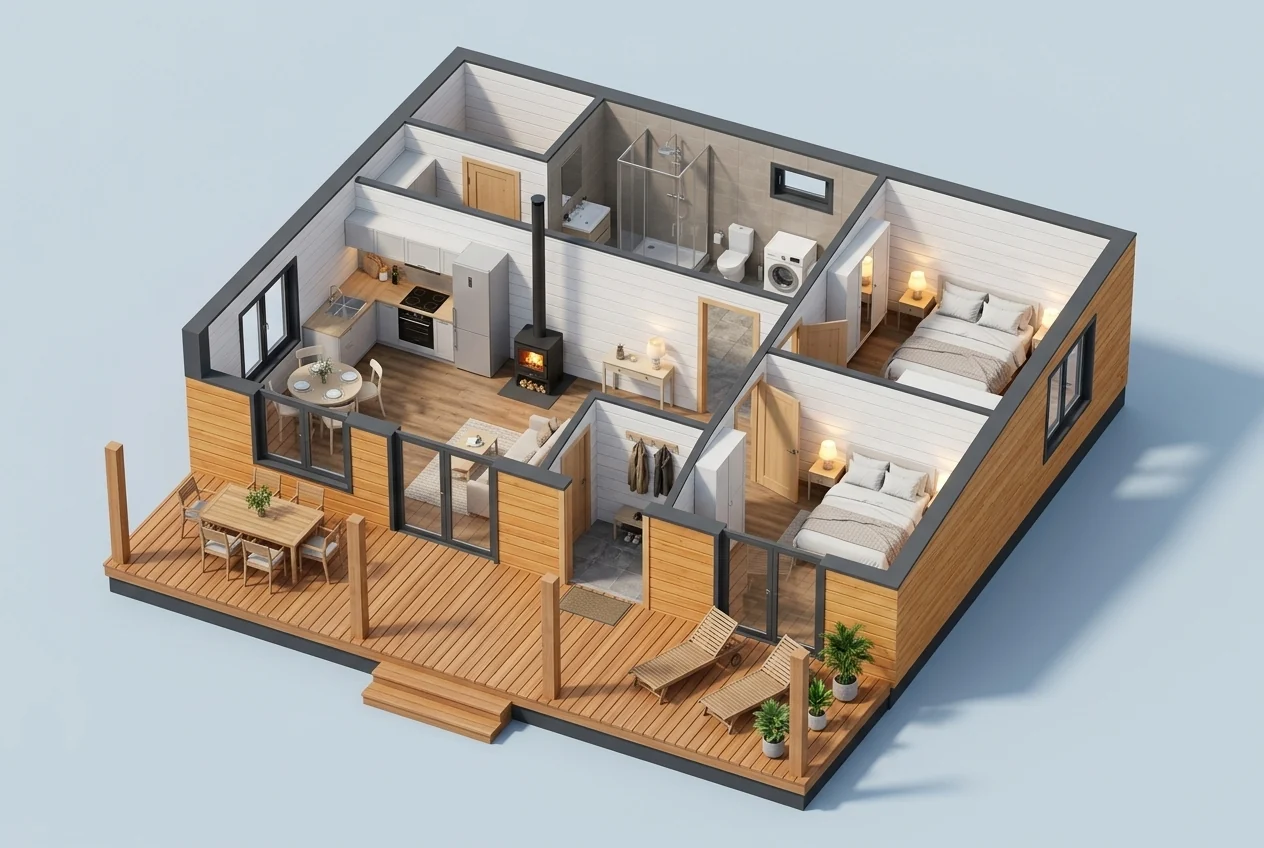
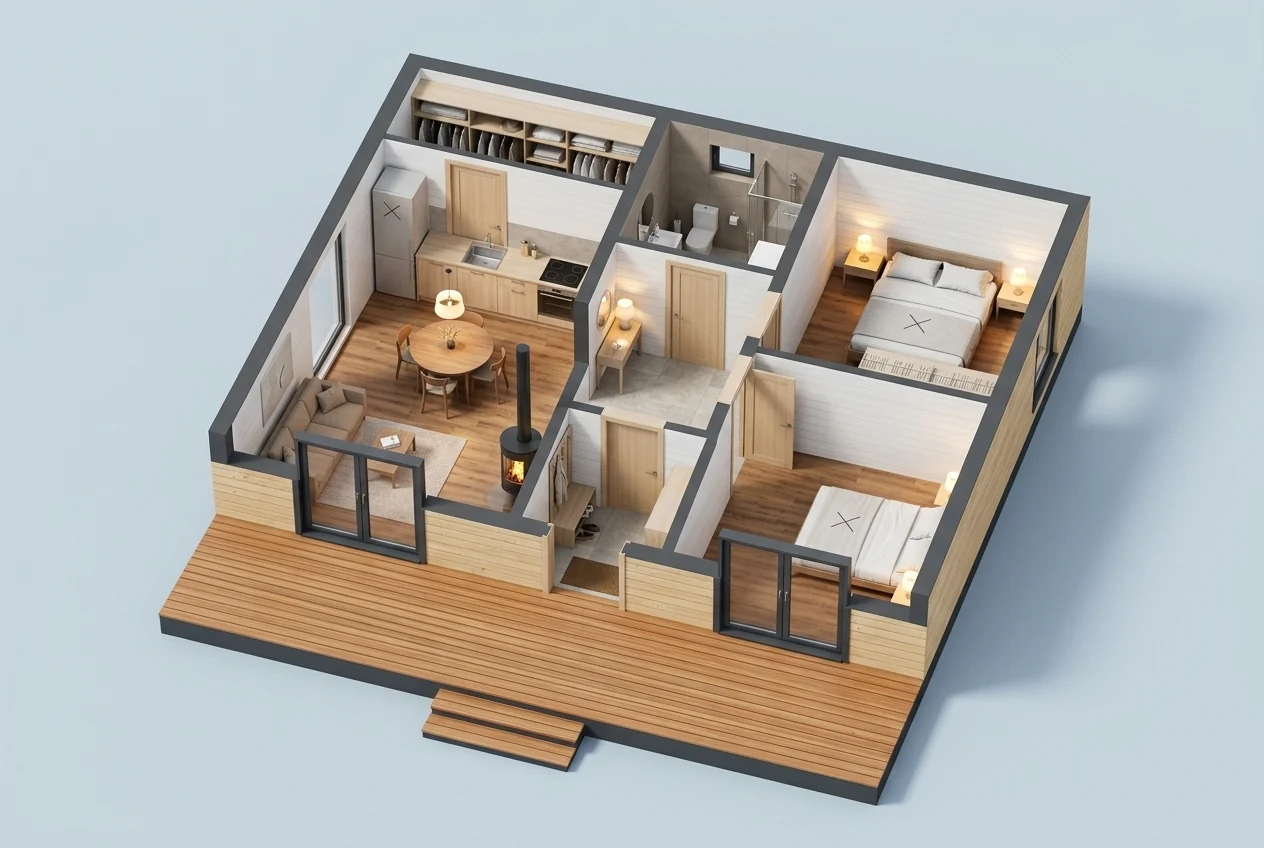
Стамбул 9,5 × 8: заменил 3D-вид планировки

diff --git a/v2/proekt-95h8.html b/v2/proekt-95h8.html
@@ -159,7 +159,7 @@
     </section>
     <section class="sec" id="plan">
       <h2 class="sech">Планировка</h2>
-      <div class="pln pln--one pln--desc" data-pln style="--ar:0.800"><div class="pln__c" data-n="1"><div class="pln__hd"><h3 class="pln__h">Планировка</h3><p class="pln__nm">2 комнаты · 48,1 м² в тепле</p></div><button type="button" class="pln__db" data-pld="1" aria-haspopup="dialog" aria-controls="pld"><svg viewBox="0 0 24 24" fill="none" stroke="currentColor" stroke-width="1.9" stroke-linecap="round" stroke-linejoin="round" aria-hidden="true"><path d="M7 3h7l5 5v13H7z"/><path d="M14 3v5h5M10 13h6M10 17h6"/></svg><span>Описание плана</span></button><div class="pln__w"><div class="pln__in"><button type="button" class="pln__m" aria-label="Открыть «Планировка · 2 комнаты» на весь экран"><img class="is-on" src="../img/stambul-95h8-plan-1.webp" width="1600" height="2030" alt="Планировка · 2 комнаты · Чертёж" decoding="async" loading="lazy"><img src="../img/stambul-95h8-plan-1-3d.webp" width="1264" height="848" alt="Планировка · 2 комнаты · 3D-вид" decoding="async" loading="lazy"><span class="pln__zoom" aria-hidden="true"><svg viewBox="0 0 24 24" fill="none" stroke="currentColor" stroke-width="2" stroke-linecap="round" stroke-linejoin="round"><path d="M15 3h6v6M9 21H3v-6M21 3l-7 7M3 21l7-7"/></svg></span></button><div class="pln__s"><button type="button" class="pln__t is-on" aria-pressed="true"><img src="../img/stambul-95h8-plan-1-th.webp" alt=""><span>Чертёж</span></button><button type="button" class="pln__t" aria-pressed="false"><img src="../img/stambul-95h8-plan-1-3d-th.webp" alt=""><span>3D-вид</span></button></div></div></div></div></div><dialog class="pld" id="pld" aria-label="Описание плана"><div class="pld__bar"><button type="button" class="pld__x" data-close><svg viewBox="0 0 24 24" fill="none" stroke="currentColor" stroke-width="1.9" stroke-linecap="round" stroke-linejoin="round" aria-hidden="true"><path d="M6 6l12 12M18 6 6 18"/></svg>Закрыть</button></div><div class="pld__b"><div class="pld__p" data-pane="1" hidden><figure class="pld__fig" data-n="1"><button type="button" class="pld__m" aria-label="Открыть «Планировка · 2 комнаты» на весь экран"><img class="is-on" src="../img/stambul-95h8-plan-1.webp" width="1600" height="2030" alt="Планировка · 2 комнаты · Чертёж" decoding="async" loading="lazy"><img src="../img/stambul-95h8-plan-1-3d.webp" width="1264" height="848" alt="Планировка · 2 комнаты · 3D-вид" decoding="async" loading="lazy"></button><div class="pld__v" role="group" aria-label="Вид плана"><button type="button" aria-pressed="true">Чертёж</button><button type="button" aria-pressed="false">3D-вид</button></div></figure><div class="pld__txt"><p class="pld__k">Вариант 1 · 48,1 м² в тепле</p><h3 class="pld__t">Дом 8,1 × 9,6 с тамбуром, гардеробной и террасой во всю ширину</h3><p class="pld__s">Продуманный одноэтажный дом на 48 метров: тёплый вход через тамбур, две спальни, кухня-гостиная почти 17 м² с французской дверью на террасу, отдельная гардеробная и санузел. Терраса 20,2 м² идёт вдоль всего фасада, и выходов на неё три.</p><p class="pld__h">Кому подходит</p><ul class="pln__who pld__who"><li>Семья с ребёнком или двое взрослых: две отдельные спальни</li><li>Живёте круглый год — тамбур держит холод и грязь у входа</li><li>Нужно место под вещи: отдельная гардеробная почти 3 м²</li><li>Любите, чтобы спальни были в стороне от общей комнаты</li><li>Много времени проводите на террасе: выход из гостиной, из спальни и через тамбур</li></ul><p class="pln__not"><b>Не ваш,</b> если нужны комнаты от 12 м², ванна или кухня, закрытая от гостиной.</p><p class="pld__h">Почему сделано именно так</p><ul class="pld__l"><li><b>Настоящий тамбур у входа</b>Редкость для дома этого размера. Зимой холод, снег и грязь остаются в тамбуре: тепло не уходит, а в гостиной чисто.</li><li><b>Отдельная гардеробная 2,88 м²</b>Верхняя одежда, обувь, сезонные вещи и хозяйственный запас — в одном месте. Спальни не превращаются в склад шкафов.</li><li><b>Кухня-гостиная 16,7 м²</b>Самая большая комната дома с окном 1,5 м и французской дверью на террасу: кухня, обеденный стол и диван помещаются свободно.</li><li><b>Спальни в отдельном крыле</b>Обе комнаты выходят в холл, а не в гостиную. Когда в общей комнате гости, в спальнях тихо — так спланированы дома куда большего размера.</li><li><b>Три выхода на террасу</b>Из гостиной, из спальни и через тамбур. Терраса работает как продолжение дома, а не как проходное крыльцо.</li><li><b>Терраса 20,2 м² во всю ширину фасада</b>Почти половина жилой площади дома дополнительно, но без отопления: летом это вторая гостиная.</li><li><b>Санузел в центре дома</b>Короткие трассы воды и канализации — дешевле инженерка и меньше риск промерзания. Есть окно: свет и проветривание.</li><li><b>Стены 200 мм</b>Толще стандартных 150 мм: теплее зимой, прохладнее летом и заметно меньше счёт за отопление.</li><li><b>Простой прямоугольник 8,1 × 7,1 м</b>Без выступов и эркеров: экономный фундамент, простая крыша и быстрая сборка.</li></ul><p class="pld__h">Честно о минусах</p><ul class="pld__l pld__l--minus"><li><b>Комнаты 8,91 и 8,38 м² — это спальни</b>Выше нормы 8 м², но полноценное рабочее место в них уже не встанет. Лечится: кабинет организовать в гостиной или в гардеробной.</li><li><b>Санузел один и без ванны</b>Душ, унитаз и раковина встают свободно, ванна — нет. Лечится: душевая кабина с глубоким поддоном; стиральная машина ставится под раковину.</li><li><b>Холл и тамбур съедают 7,6 м²</b>Это 16 % площади при норме до 12 %. Плата за тёплый вход и за то, что спальни не проходные.</li><li><b>Кухня в общей комнате</b>Запахи готовки идут в зону отдыха. Лечится: вытяжка с отводом на улицу.</li><li><b>Гардеробная без окна</b>Нужен свет и вытяжка, иначе вещи будут «задыхаться».</li></ul></div></div></div></dialog><p class="plan__t">Пришлём планировку этого дома — с размерами комнат и террасы.</p><button type="button" class="btn btn--l" data-callback>Получить планировку</button></div>
+      <div class="pln pln--one pln--desc" data-pln style="--ar:0.800"><div class="pln__c" data-n="1"><div class="pln__hd"><h3 class="pln__h">Планировка</h3><p class="pln__nm">2 комнаты · 48,1 м² в тепле</p></div><button type="button" class="pln__db" data-pld="1" aria-haspopup="dialog" aria-controls="pld"><svg viewBox="0 0 24 24" fill="none" stroke="currentColor" stroke-width="1.9" stroke-linecap="round" stroke-linejoin="round" aria-hidden="true"><path d="M7 3h7l5 5v13H7z"/><path d="M14 3v5h5M10 13h6M10 17h6"/></svg><span>Описание плана</span></button><div class="pln__w"><div class="pln__in"><button type="button" class="pln__m" aria-label="Открыть «Планировка · 2 комнаты» на весь экран"><img class="is-on" src="../img/stambul-95h8-plan-1.webp" width="1600" height="2030" alt="Планировка · 2 комнаты · Чертёж" decoding="async" loading="lazy"><img src="../img/stambul-95h8-plan-1-3d.webp?v=2" width="1264" height="848" alt="Планировка · 2 комнаты · 3D-вид" decoding="async" loading="lazy"><span class="pln__zoom" aria-hidden="true"><svg viewBox="0 0 24 24" fill="none" stroke="currentColor" stroke-width="2" stroke-linecap="round" stroke-linejoin="round"><path d="M15 3h6v6M9 21H3v-6M21 3l-7 7M3 21l7-7"/></svg></span></button><div class="pln__s"><button type="button" class="pln__t is-on" aria-pressed="true"><img src="../img/stambul-95h8-plan-1-th.webp" alt=""><span>Чертёж</span></button><button type="button" class="pln__t" aria-pressed="false"><img src="../img/stambul-95h8-plan-1-3d-th.webp?v=2" alt=""><span>3D-вид</span></button></div></div></div></div></div><dialog class="pld" id="pld" aria-label="Описание плана"><div class="pld__bar"><button type="button" class="pld__x" data-close><svg viewBox="0 0 24 24" fill="none" stroke="currentColor" stroke-width="1.9" stroke-linecap="round" stroke-linejoin="round" aria-hidden="true"><path d="M6 6l12 12M18 6 6 18"/></svg>Закрыть</button></div><div class="pld__b"><div class="pld__p" data-pane="1" hidden><figure class="pld__fig" data-n="1"><button type="button" class="pld__m" aria-label="Открыть «Планировка · 2 комнаты» на весь экран"><img class="is-on" src="../img/stambul-95h8-plan-1.webp" width="1600" height="2030" alt="Планировка · 2 комнаты · Чертёж" decoding="async" loading="lazy"><img src="../img/stambul-95h8-plan-1-3d.webp?v=2" width="1264" height="848" alt="Планировка · 2 комнаты · 3D-вид" decoding="async" loading="lazy"></button><div class="pld__v" role="group" aria-label="Вид плана"><button type="button" aria-pressed="true">Чертёж</button><button type="button" aria-pressed="false">3D-вид</button></div></figure><div class="pld__txt"><p class="pld__k">Вариант 1 · 48,1 м² в тепле</p><h3 class="pld__t">Дом 8,1 × 9,6 с тамбуром, гардеробной и террасой во всю ширину</h3><p class="pld__s">Продуманный одноэтажный дом на 48 метров: тёплый вход через тамбур, две спальни, кухня-гостиная почти 17 м² с французской дверью на террасу, отдельная гардеробная и санузел. Терраса 20,2 м² идёт вдоль всего фасада, и выходов на неё три.</p><p class="pld__h">Кому подходит</p><ul class="pln__who pld__who"><li>Семья с ребёнком или двое взрослых: две отдельные спальни</li><li>Живёте круглый год — тамбур держит холод и грязь у входа</li><li>Нужно место под вещи: отдельная гардеробная почти 3 м²</li><li>Любите, чтобы спальни были в стороне от общей комнаты</li><li>Много времени проводите на террасе: выход из гостиной, из спальни и через тамбур</li></ul><p class="pln__not"><b>Не ваш,</b> если нужны комнаты от 12 м², ванна или кухня, закрытая от гостиной.</p><p class="pld__h">Почему сделано именно так</p><ul class="pld__l"><li><b>Настоящий тамбур у входа</b>Редкость для дома этого размера. Зимой холод, снег и грязь остаются в тамбуре: тепло не уходит, а в гостиной чисто.</li><li><b>Отдельная гардеробная 2,88 м²</b>Верхняя одежда, обувь, сезонные вещи и хозяйственный запас — в одном месте. Спальни не превращаются в склад шкафов.</li><li><b>Кухня-гостиная 16,7 м²</b>Самая большая комната дома с окном 1,5 м и французской дверью на террасу: кухня, обеденный стол и диван помещаются свободно.</li><li><b>Спальни в отдельном крыле</b>Обе комнаты выходят в холл, а не в гостиную. Когда в общей комнате гости, в спальнях тихо — так спланированы дома куда большего размера.</li><li><b>Три выхода на террасу</b>Из гостиной, из спальни и через тамбур. Терраса работает как продолжение дома, а не как проходное крыльцо.</li><li><b>Терраса 20,2 м² во всю ширину фасада</b>Почти половина жилой площади дома дополнительно, но без отопления: летом это вторая гостиная.</li><li><b>Санузел в центре дома</b>Короткие трассы воды и канализации — дешевле инженерка и меньше риск промерзания. Есть окно: свет и проветривание.</li><li><b>Стены 200 мм</b>Толще стандартных 150 мм: теплее зимой, прохладнее летом и заметно меньше счёт за отопление.</li><li><b>Простой прямоугольник 8,1 × 7,1 м</b>Без выступов и эркеров: экономный фундамент, простая крыша и быстрая сборка.</li></ul><p class="pld__h">Честно о минусах</p><ul class="pld__l pld__l--minus"><li><b>Комнаты 8,91 и 8,38 м² — это спальни</b>Выше нормы 8 м², но полноценное рабочее место в них уже не встанет. Лечится: кабинет организовать в гостиной или в гардеробной.</li><li><b>Санузел один и без ванны</b>Душ, унитаз и раковина встают свободно, ванна — нет. Лечится: душевая кабина с глубоким поддоном; стиральная машина ставится под раковину.</li><li><b>Холл и тамбур съедают 7,6 м²</b>Это 16 % площади при норме до 12 %. Плата за тёплый вход и за то, что спальни не проходные.</li><li><b>Кухня в общей комнате</b>Запахи готовки идут в зону отдыха. Лечится: вытяжка с отводом на улицу.</li><li><b>Гардеробная без окна</b>Нужен свет и вытяжка, иначе вещи будут «задыхаться».</li></ul></div></div></div></dialog><p class="plan__t">Пришлём планировку этого дома — с размерами комнат и террасы.</p><button type="button" class="btn btn--l" data-callback>Получить планировку</button></div>
     </section>
 
     <section class="sec" id="inc">
